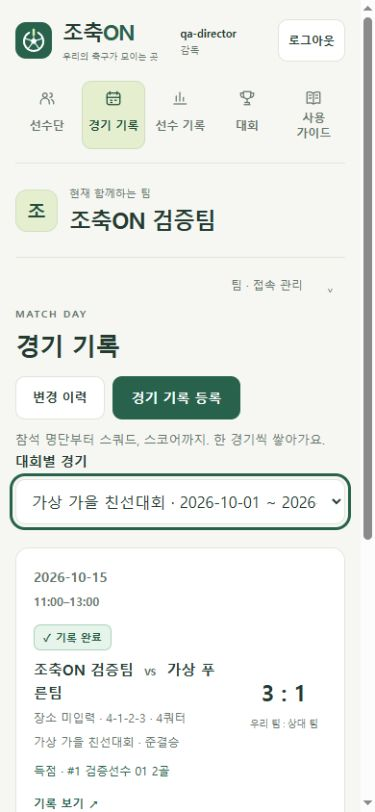
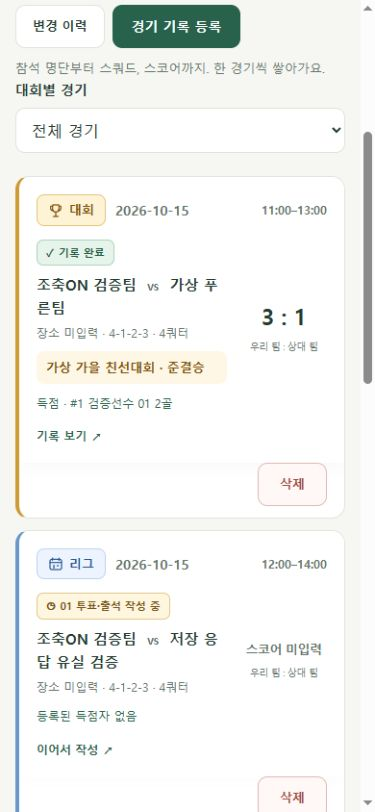
docs: distinguish league and tournament match labels [skip ci]

diff --git a/docs/tournaments-and-completion-review.md b/docs/tournaments-and-completion-review.md
@@ -5,7 +5,9 @@
 ## 합의한 범위
 
 - 대회명·시작일·종료일·장소·참가 부문·메모를 팀별로 관리한다. 대회명과 기간은 필수이며 나머지는 선택이다.
-- 경기 하나는 대회 하나에 연결하거나 일반 경기로 둔다. 대회 경기는 외부 경기이며, 예선·16강·8강·준결승·결승·3/4위전·기타 중 단계를 선택할 수 있다. 단계 미입력도 허용한다.
+- 경기 하나는 대회 하나에 연결하거나 매주 하는 **리그** 경기로 둔다. 대회가 연결된 외부 경기는 **대회**, 대회가 없는 외부 경기는 **리그**로 표시한다. **자체전**은 별도로 유지한다. 여기서 리그는 정기 경기의 표시명이며 별도 리그 순위표나 리그 관리 기능을 뜻하지 않는다.
+- 대회 단계는 예선·16강·8강·준결승·결승·3/4위전·기타 중 선택할 수 있으며 미입력도 허용한다.
+- 경기 목록의 날짜 옆에 리그(파랑)·대회(금색)·자체전(회색) 배지를 표시하고 카드 왼쪽 색상으로도 구분한다. 대회명·단계는 별도 강조 영역에 표시한다. 편집/조회 상단과 선수별 경기 기록도 같은 구분을 사용하며 색상만으로 의미를 전달하지 않는다. 기존 DB 저장값·집계·저장 요청은 바꾸지 않는다.
 - 경기 입력은 기존 4쿼터를 유지한다. 전·후반, 경기 길이, 승부차기, 대회 전용 통계 환산·연령 자격 판정은 후속 설계다.
 - 대회 기간 밖의 경기 날짜는 안내하되 저장을 막지 않는다. 일정 변경·연기 상황에서 기존 기록이 막히지 않도록 한다.
 - 회원은 조회, 감독·코치는 등록·수정한다. 이번에는 대회 삭제를 제공하지 않는다.
@@ -15,7 +17,7 @@
 
 1. **대회** 메뉴에서 대회를 등록한다. 한 번 등록한 대회에 여러 경기 기록을 연결한다.
 2. **경기 보기**를 누르면 해당 대회로 필터된 경기 목록을 연다.
-3. 새 경기 또는 기존 경기의 기본 정보에서 **대회**와 **대회 단계**를 선택한다. 경기별 스코어·선수 기록은 기존 방식으로 입력한다.
+3. 새 경기 또는 기존 경기의 **리그 / 대회**에서 **리그 · 매주 하는 경기** 또는 등록한 대회를 선택한다. 대회는 **대회 단계**도 선택할 수 있다. 경기별 스코어·선수 기록은 기존 방식으로 입력한다.
 4. **04 결과·코멘트**의 **완료 전 확인**에서 확인할 항목을 보고 해당 단계·쿼터로 이동한다.
 5. 운영진이 확인 후 기존 **기록 완료 · 목록으로**를 누른다. 안내 항목이 남았다는 이유만으로 완료를 막지 않는다.
 6. **선수 기록**에서도 대회를 골라 합계·선수별 상세·원본을 확인한다. 시즌과 대회 조건을 함께 적용한다.

diff --git a/docs/verification.md b/docs/verification.md
@@ -1,5 +1,11 @@
 # 조축ON 검증 기록
 
+## 리그·대회 구분 표시 (2026-10-15 · 로컬)
+
+- 대회 미연결 외부 경기를 리그, 대회 연결 경기를 대회로 표시한다. 자체전은 별도다. 목록의 색상·아이콘·텍스트 배지와 왼쪽 강조선, 대회명·단계 강조, 경기 조회/편집 상단과 선수별 경기 카드에 같은 구분을 적용했다. 입력의 기본 선택 문구는 `리그 · 매주 하는 경기`다. DB·API 요청·집계 규칙은 바꾸지 않았다.
+- 기존 프론트 회귀 테스트 **138/138** 통과, TypeScript/Vite 빌드 성공. 가상 데이터의 320/390/1280px 목록과 리그·대회 상세를 확인했다. 320px 04 스코어 fieldset이 약 3px 넘치는 문제를 발견해 최소 너비를 풀고 재빌드했으며 상세의 `scrollWidth == clientWidth`를 확인했다. 실제 아이폰 Safari와 이번 변경에서의 백엔드/MySQL 테스트는 수행하지 않았다.
+- 기존 가상 경기는 조회만 했으며 저장하지 않았다. 안내 그림·가이드 반영 대기 목록을 갱신하고 문서·그림만 GitHub에 업로드한다. 운영 배포는 하지 않는다. [모바일 비교 화면](diagrams/tournament-match-mobile.png).
+
 ## 대회 관리와 경기 완료 전 점검 (2026-10-15 · 로컬)
 
 - 대회 관리·경기 연결·대회별 경기/선수 기록·04 완료 전 점검을 로컬 구현했다. 운영 앱 `b9d8738`, DB V23, 사용자 가이드 1.1은 유지한다. 새 V24는 Docker 테스트 DB와 별도 가상 미리보기 DB에만 적용했다.

diff --git a/README.md b/README.md
@@ -1,6 +1,6 @@
 # 조축ON
 
-[로컬 구현: 대회 관리와 경기 완료 전 점검](docs/tournaments-and-completion-review.md) · [업무 흐름도](docs/diagrams/tournaments-and-completion-review.svg) · [그림 생성 원본](scripts/Generate-TournamentWorkflow.mjs) — 대회 등록·경기 연결·대회별 조회를 가상 자료로 검증했습니다. 운영 앱과 가이드에는 아직 반영하지 않았습니다.
+[로컬 구현: 대회 관리와 경기 완료 전 점검](docs/tournaments-and-completion-review.md) · [업무 흐름도](docs/diagrams/tournaments-and-completion-review.svg) · [그림 생성 원본](scripts/Generate-TournamentWorkflow.mjs) — 대회 등록·경기 연결·대회별 조회, 정기 경기의 리그 표시와 리그/대회 배지를 가상 자료로 검증했습니다. 운영 앱과 가이드에는 아직 반영하지 않았습니다.
 
 [로컬 구현: 선수별 시즌 상세와 원본 경기](docs/player-season-detail.md) — 선수 이름을 눌러 경기별 기록과 원본을 조회합니다. 운영 배포 전이며 현재 서비스와 구분합니다.
 

diff --git a/docs/roadmap.md b/docs/roadmap.md
@@ -7,6 +7,7 @@
 - [x] 04의 완료 전 점검에서 실제 출석·쿼터별 배치·스코어를 안내하고 해당 입력 위치로 이동
 - [x] 기존 4쿼터·명시적 기록 완료·중간 저장·초안·동시 수정 보호의 회귀 테스트 통과
 - [x] 모바일 5개 메뉴와 대회·경기·시즌 상세 화면을 가상 자료로 확인
+- [x] 정기 외부 경기를 리그로 표시하고 경기 목록·편집·선수별 기록에 리그/대회/자체전 배지 적용. 대회명·단계 강조, 기존 DB·집계 유지
 - [ ] 사용자 로컬 검토와 실제 아이폰 Safari 확인
 - [ ] 다음 배포 준비 때 회원용 대회 조회·기록 필터, 운영진용 등록/수정·경기 연결·점검 흐름을 공통 원고와 HTML/PDF·앱 가이드에 반영
 - [설계와 검증 범위](tournaments-and-completion-review.md) · [개발 업무 흐름도](diagrams/tournaments-and-completion-review.svg) · [가이드 반영 대기](guides/maintenance.json)
